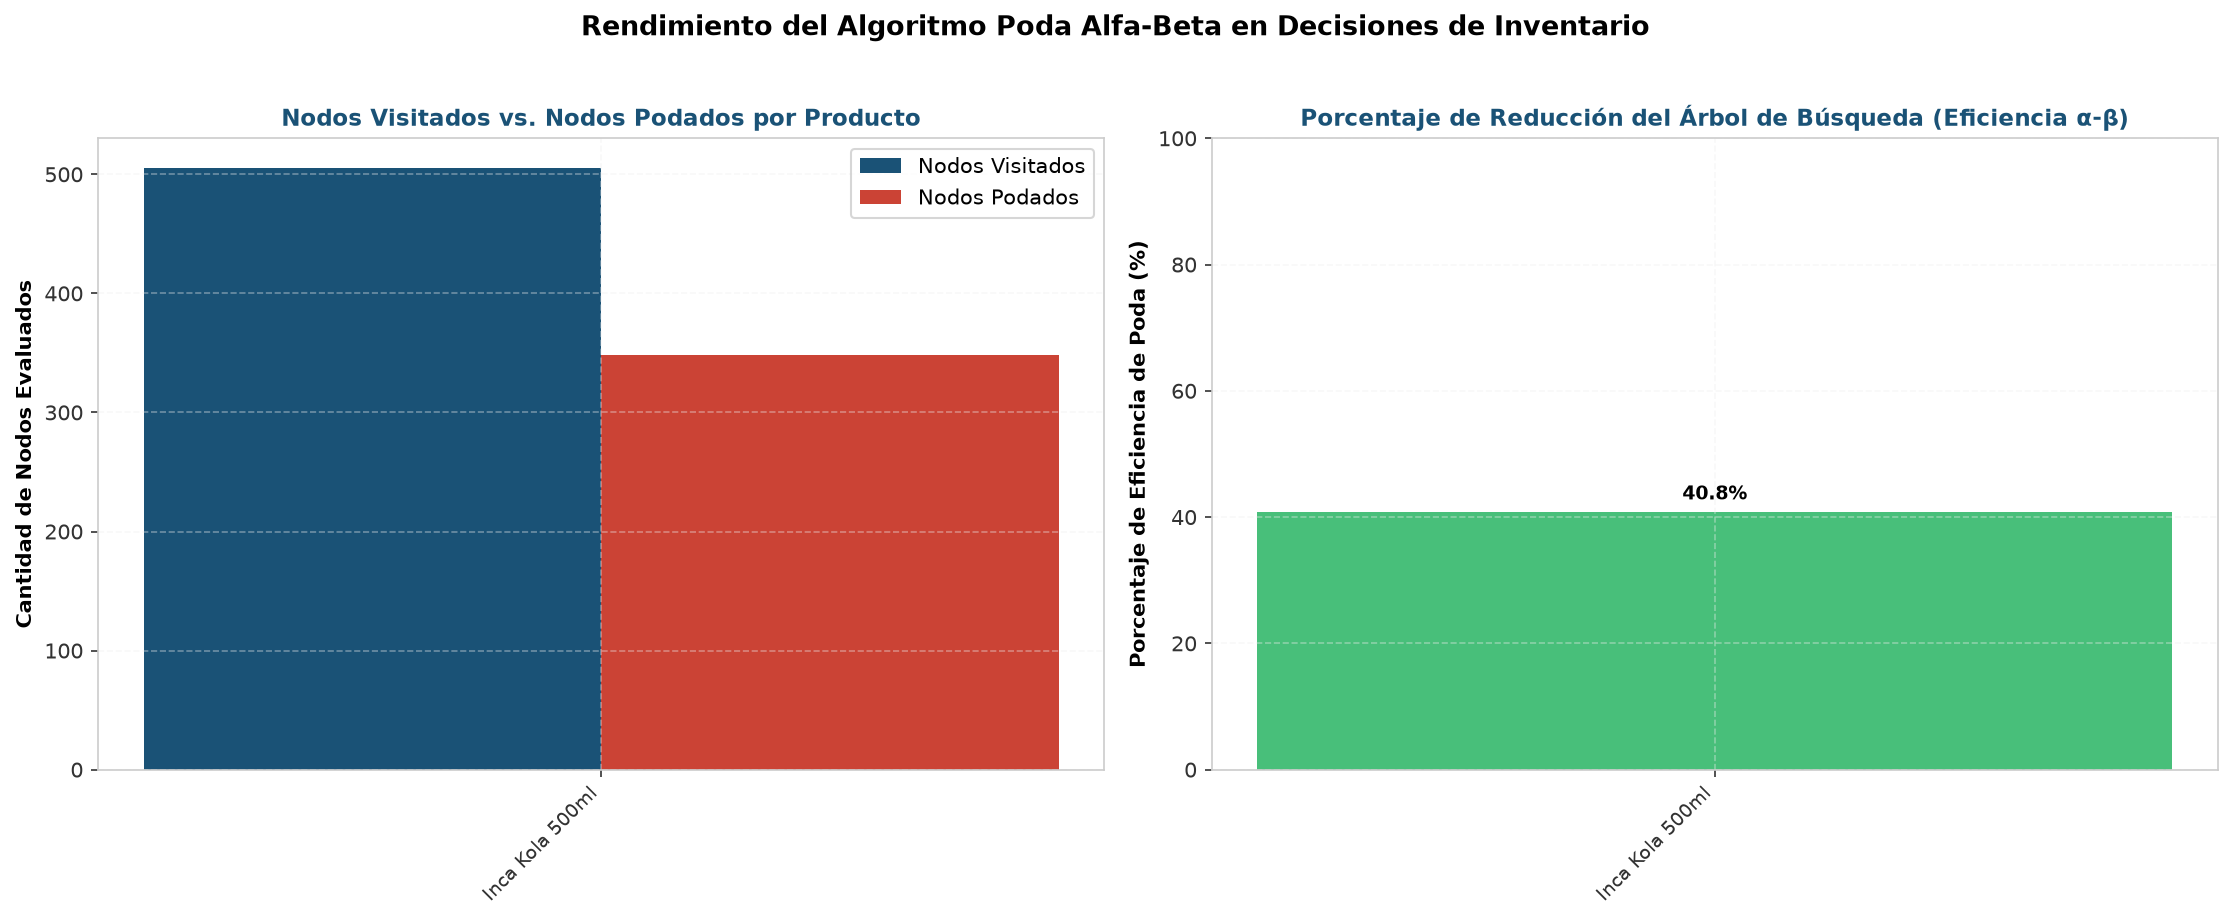
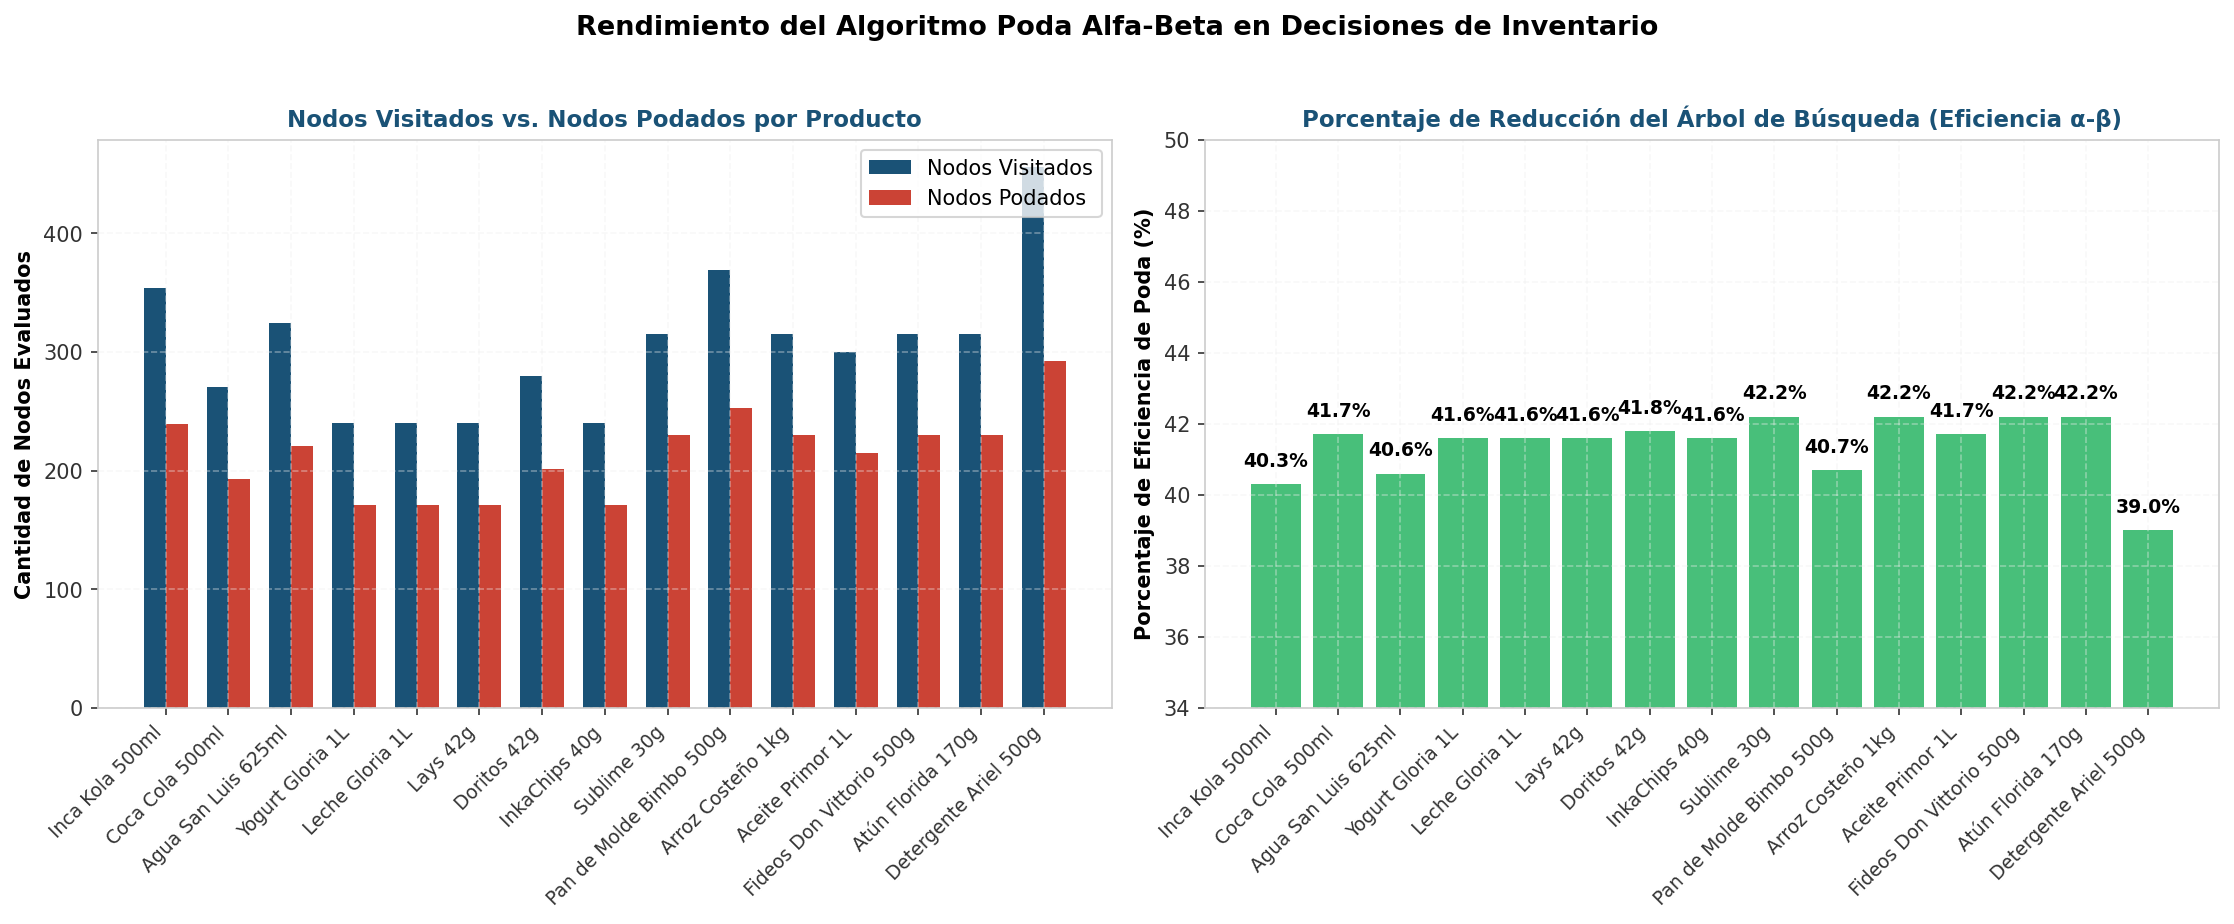
Actualización de archivos de la API y módulos

diff --git a/modulos/reportador.py b/modulos/reportador.py
@@ -879,15 +879,18 @@ def graficar_resultados_poda_alfa_beta(resultados_poda, directorio="reportes"):
     ax1.grid(True, linestyle="--", alpha=0.4)
 
     # Gráfico de Eficiencia (%)
-    ax2.bar(nombres, eficiencias, color=COLOR_EXITO, alpha=0.85)
+    ax2.bar(x, eficiencias, color=COLOR_EXITO, alpha=0.85)
     ax2.set_ylabel("Porcentaje de Eficiencia de Poda (%)", fontsize=10, fontweight="bold")
     ax2.set_title("Porcentaje de Reducción del Árbol de Búsqueda (Eficiencia α-β)", fontsize=11, fontweight="bold", color=COLOR_PRIMARIO)
+    ax2.set_xticks(x)
     ax2.set_xticklabels(nombres, rotation=45, ha="right", fontsize=9)
-    ax2.set_ylim(0, 100)
+    min_ef = max(0, int(min(eficiencias)) - 5)
+    max_ef = min(100, int(max(eficiencias)) + 8)
+    ax2.set_ylim(min_ef, max_ef)
     ax2.grid(True, linestyle="--", alpha=0.4)
 
     for i, v in enumerate(eficiencias):
-        ax2.text(i, v + 2, f"{v}%", ha="center", fontweight="bold", fontsize=9)
+        ax2.text(i, v + 0.5, f"{v}%", ha="center", fontweight="bold", fontsize=9)
 
     plt.suptitle("Rendimiento del Algoritmo Poda Alfa-Beta en Decisiones de Inventario", fontsize=13, fontweight="bold", y=1.02)
     plt.tight_layout()
@@ -950,4 +953,61 @@ def graficar_resultados_poda_alfa_beta(resultados_poda, directorio="reportes"):
     plt.tight_layout()
     fig2.savefig(os.path.join(subcarpeta_poda, "poda_alfa_beta_matriz_utilidad.png"), dpi=150, bbox_inches="tight")
     plt.close(fig2)
+
+    # 3. Gráfico Consolidado (Combina ambos gráficos en una vista unificada)
+    fig_cons = plt.figure(figsize=(15, 11))
+    fig_cons.patch.set_facecolor("#FFFFFF")
+    gs = fig_cons.add_gridspec(2, 2, height_ratios=[1.1, 1.0])
+
+    ax_c1 = fig_cons.add_subplot(gs[0, 0])
+    ax_c2 = fig_cons.add_subplot(gs[0, 1])
+    ax_c3 = fig_cons.add_subplot(gs[1, :])
+
+    # Subplot 1: Nodos Visitados vs Podados
+    ax_c1.bar(x - width/2, visitados, width, label="Nodos Visitados", color=COLOR_PRIMARIO)
+    ax_c1.bar(x + width/2, podados, width, label="Nodos Podados", color=COLOR_ALERTA_ALTA)
+    ax_c1.set_ylabel("Cantidad de Nodos Evaluados", fontsize=9, fontweight="bold")
+    ax_c1.set_title("Nodos Visitados vs. Nodos Podados por Producto", fontsize=10, fontweight="bold", color=COLOR_PRIMARIO)
+    ax_c1.set_xticks(x)
+    ax_c1.set_xticklabels(nombres, rotation=45, ha="right", fontsize=8)
+    ax_c1.legend(loc="upper right", fontsize=8)
+    ax_c1.grid(True, linestyle="--", alpha=0.4)
+
+    # Subplot 2: % Eficiencia
+    ax_c2.bar(x, eficiencias, color=COLOR_EXITO, alpha=0.85)
+    ax_c2.set_ylabel("Porcentaje de Eficiencia de Poda (%)", fontsize=9, fontweight="bold")
+    ax_c2.set_title("Porcentaje de Reducción del Árbol (Eficiencia α-β)", fontsize=10, fontweight="bold", color=COLOR_PRIMARIO)
+    ax_c2.set_xticks(x)
+    ax_c2.set_xticklabels(nombres, rotation=45, ha="right", fontsize=8)
+    ax_c2.set_ylim(min_ef, max_ef)
+    ax_c2.grid(True, linestyle="--", alpha=0.4)
+    for i, v in enumerate(eficiencias):
+        ax_c2.text(i, v + 0.5, f"{v}%", ha="center", fontweight="bold", fontsize=8)
+
+    # Subplot 3: Matriz de Utilidades
+    ax_c3.axis("off")
+    tabla_c = ax_c3.table(cellText=cell_text, colLabels=col_labels, loc="center", cellLoc="center")
+    tabla_c.auto_set_font_size(False)
+    tabla_c.set_fontsize(8.5)
+    tabla_c.scale(1.1, 1.4)
+
+    for (row, col), cell in tabla_c.get_celld().items():
+        if row == 0:
+            cell.set_facecolor(COLOR_PRIMARIO)
+            cell.set_text_props(color="white", fontweight="bold")
+        else:
+            if col == 0:
+                cell.set_facecolor("#F2F4F7")
+                cell.set_text_props(fontweight="bold")
+            else:
+                cell.set_facecolor("#FFFFFF")
+
+    ax_c3.set_title(f"Matriz de Utilidades Inmediatas (Día 1): {prod_nombre} - Decisión Óptima: {primer_res['mejor_accion']} (Utilidad Acumulada D={prof}: S/. {primer_res['utilidad_optima']:,.2f})",
+                     fontsize=10, fontweight="bold", color=COLOR_PRIMARIO, pad=10)
+
+    fig_cons.suptitle("Evaluación Consolidada del Algoritmo Poda Alfa-Beta en Decisiones de Inventario", fontsize=13, fontweight="bold", y=0.98)
+    plt.tight_layout()
+    fig_cons.savefig(os.path.join(subcarpeta_poda, "poda_alfa_beta_consolidado.png"), dpi=150, bbox_inches="tight")
+    plt.close(fig_cons)
+
 

diff --git a/modulos/poda_alfa_beta.py b/modulos/poda_alfa_beta.py
@@ -115,8 +115,15 @@ class EvaluadorPodaAlfaBeta:
         elif accion == AccionAgente.ORDEN_EMERGENCIA:
             cantidad_pedido = max(15.0, demanda_dia * 2.2)
         elif accion == AccionAgente.PROMO_DESCUENTO:
-            precio_efectivo = estado_actual.precio_venta * 0.80  # 20% descuento
-            demanda_dia *= 1.25  # Aumenta demanda por rotación
+            if estado_actual.es_perecedero and estado_actual.dias_vencimiento <= 7:
+                precio_efectivo = estado_actual.precio_venta * 0.75  # 25% descuento por vencimiento próximo
+                demanda_dia *= 1.35  # Aumento efectivo de rotación para mitigar mermas
+            elif estado_actual.stock_actual > (estado_actual.demanda_diaria_prom * 5):
+                precio_efectivo = estado_actual.precio_venta * 0.85
+                demanda_dia *= 1.20
+            else:
+                precio_efectivo = estado_actual.precio_venta * 0.80  # Descuento no rentable sin riesgo de vencimiento
+                demanda_dia *= 1.08
             cantidad_pedido = 0
         elif accion == AccionAgente.MANTENER:
             cantidad_pedido = 0
@@ -138,20 +145,23 @@ class EvaluadorPodaAlfaBeta:
             stock_remanente = 0.0
 
         ingresos = ventas_realizadas * precio_efectivo
-        costo_pedido = cantidad_pedido * estado_actual.costo_unidad
+        # Costo de Ventas (COGS) contable del periodo sobre unidades vendidas
+        costo_ventas = ventas_realizadas * estado_actual.costo_unidad
+
+        costo_pedido_fijo = 0.0
         if accion == AccionAgente.ORDEN_EMERGENCIA and cantidad_pedido > 0:
-            costo_pedido *= 1.15  # Recargo por entrega rápida
+            costo_pedido_fijo = cantidad_pedido * estado_actual.costo_unidad * 0.15  # Recargo logístico por envío rápido
 
         costo_almacenamiento = stock_remanente * estado_actual.costo_unidad * self.costo_almacenamiento_pct
         penalizacion_quiebre = quiebre_stock * (estado_actual.precio_venta * self.penalizacion_quiebre_mult)
         costo_merma = merma_unidades * estado_actual.costo_unidad
 
-        utilidad_paso = ingresos - costo_pedido - costo_almacenamiento - penalizacion_quiebre - costo_merma
+        utilidad_paso = ingresos - costo_ventas - costo_pedido_fijo - costo_almacenamiento - penalizacion_quiebre - costo_merma
 
         # Generar Estado Siguiente para el Día t+1
         nuevo_stock = stock_remanente
         if cantidad_pedido > 0 and not pedido_llega_hoy:
-            nuevo_stock += cantidad_pedido  # Arribo diferido de pedido colocados previa
+            nuevo_stock += cantidad_pedido  # Arribo diferido de pedidos
 
         estado_siguiente = estado_actual.copiar()
         estado_siguiente.stock_actual = nuevo_stock
@@ -159,6 +169,15 @@ class EvaluadorPodaAlfaBeta:
             estado_siguiente.dias_vencimiento = max(0, estado_siguiente.dias_vencimiento - 1)
 
         return round(utilidad_paso, 2), estado_siguiente
+
+    def obtener_acciones_ordenadas(self, estado):
+        """Ordenamiento heurístico de acciones para acelerar cutoffs en Alpha-Beta."""
+        if estado.stock_actual < (estado.demanda_diaria_prom * (estado.lead_time_base + 1)):
+            return [AccionAgente.ORDEN_NORMAL, AccionAgente.ORDEN_EMERGENCIA, AccionAgente.MANTENER, AccionAgente.PROMO_DESCUENTO]
+        elif estado.es_perecedero and estado.dias_vencimiento <= 7:
+            return [AccionAgente.PROMO_DESCUENTO, AccionAgente.MANTENER, AccionAgente.ORDEN_NORMAL, AccionAgente.ORDEN_EMERGENCIA]
+        else:
+            return [AccionAgente.MANTENER, AccionAgente.PROMO_DESCUENTO, AccionAgente.ORDEN_NORMAL, AccionAgente.ORDEN_EMERGENCIA]
 
     def alfa_beta_minimax(self, estado, profundidad, alfa, beta, es_maximizando, accion_actual=None):
         """
@@ -173,7 +192,7 @@ class EvaluadorPodaAlfaBeta:
         if es_maximizando:
             max_eval = -math.inf
             mejor_accion = None
-            acciones = AccionAgente.obtener_todas()
+            acciones = self.obtener_acciones_ordenadas(estado)
 
             for accion in acciones:
                 # Simular respuesta adversarial de MIN ante la acción de MAX

diff --git a/api/main.py b/api/main.py
@@ -313,16 +313,27 @@ def endpoint_ruta_reabastecimiento(
 
 
 @app.get("/poda-alfa-beta", summary="Gráfico PNG del Algoritmo Minimax con Poda Alfa-Beta")
-def endpoint_poda_alfa_beta(producto_id: str = Query(None, description="ID del producto a evaluar")):
-    """Devuelve la imagen PNG con la matriz de utilidades y eficiencia del algoritmo Poda Alfa-Beta."""
+def endpoint_poda_alfa_beta(
+    producto_id: str = Query(None, description="ID del producto para la matriz de utilidad (ej. prod_001)"),
+    tipo: str = Query("eficiencia", description="Tipo de gráfico a devolver: 'eficiencia', 'matriz', o 'consolidado'")
+):
+    """Devuelve la imagen PNG del algoritmo Poda Alfa-Beta (Eficiencia de todos los productos, Matriz de Utilidad o Vista Consolidada)."""
     df_inv = STATE["df_inventario"]
     preds = STATE["predicciones"]
 
-    # Simular evaluación de poda alfa-beta para los primeros productos o el especificado
+    if df_inv is None:
+        raise HTTPException(status_code=503, detail="Sistema inicializando datos...")
+
+    # Evaluar TODOS los productos para la comparativa de eficiencia
     evaluador = EvaluadorPodaAlfaBeta()
     resultados_poda = []
 
-    prods_eval = [producto_id] if (producto_id and producto_id in preds) else list(preds.keys())[:3]
+    prods_eval = list(preds.keys())
+
+    # Si se especificó un producto_id, colocarlo al inicio para que su matriz sea la seleccionada
+    if producto_id and producto_id in prods_eval:
+        prods_eval.remove(producto_id)
+        prods_eval.insert(0, producto_id)
 
     for p_id in prods_eval:
         fila = df_inv[df_inv["producto_id"] == p_id].iloc[0]
@@ -343,9 +354,17 @@ def endpoint_poda_alfa_beta(producto_id: str = Query(None, description="ID del p
         resultados_poda.append(res)
 
     reportador.graficar_resultados_poda_alfa_beta(resultados_poda, directorio="reportes")
-    file_path = os.path.join(ROOT_DIR, "reportes", "05_poda_alfa_beta", "poda_alfa_beta_eficiencia.png")
+
+    nombre_archivo = "poda_alfa_beta_eficiencia.png"
+    if tipo == "matriz":
+        nombre_archivo = "poda_alfa_beta_matriz_utilidad.png"
+    elif tipo == "consolidado":
+        nombre_archivo = "poda_alfa_beta_consolidado.png"
+
+    file_path = os.path.join(ROOT_DIR, "reportes", "05_poda_alfa_beta", nombre_archivo)
     if os.path.exists(file_path):
         with open(file_path, "rb") as f:
             return Response(content=f.read(), media_type="image/png")
     raise HTTPException(status_code=500, detail="Error al generar gráfico de Poda Alfa-Beta")
+
 